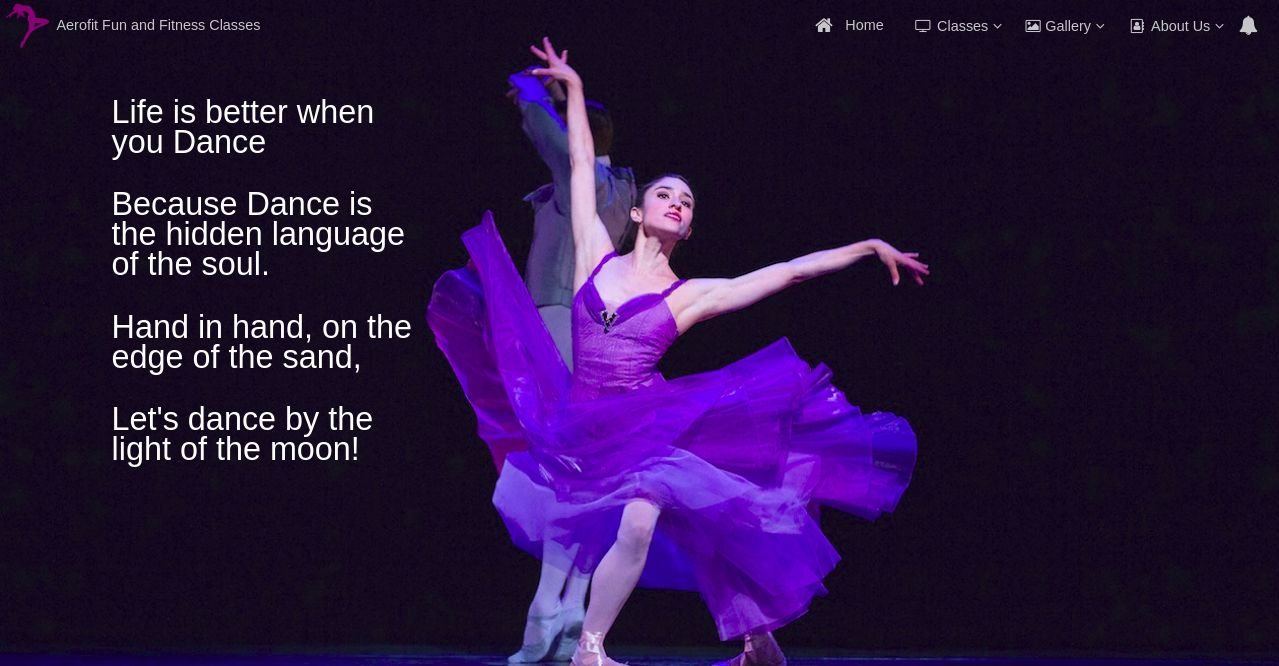
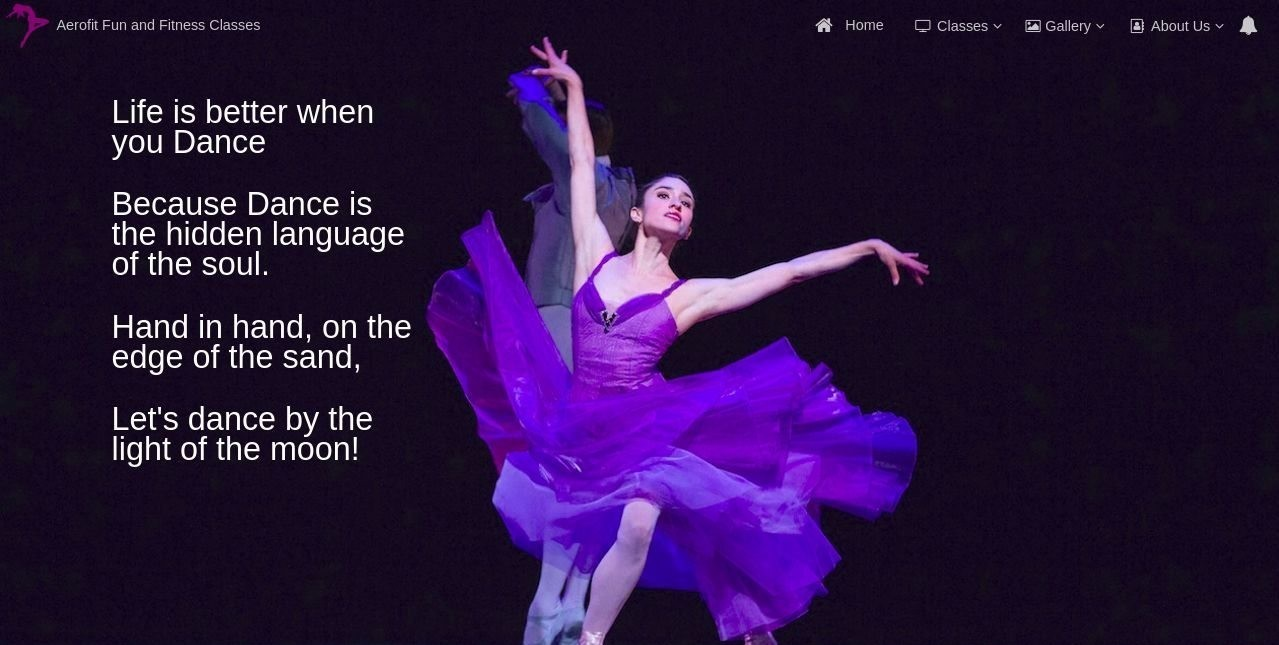
height: added to style.

diff --git a/src/styles.css b/src/styles.css
@@ -23,7 +23,8 @@
   @media only screen and (max-width: 767px) {
 
     amexio-viewport-content-body{
-      overflow: auto;
+       overflow: auto;       height: 100%;
+      height: 100%;
     }
 
   }
@@ -31,7 +32,7 @@
   @media only screen and (max-width: 959px) {
 
     amexio-viewport-content-body{
-      overflow: auto;
+       overflow: auto;       height: 100%;
     }
 
   }
@@ -39,14 +40,14 @@
   @media only screen and (max-width: 1024px) {
 
     amexio-viewport-content-body{
-      overflow: auto;
+       overflow: auto;       height: 100%;
     }
   }
 
   @media only screen and (min-width: 568px) and (max-width: 768px) {
 
     amexio-viewport-content-body{
-      overflow: auto;
+       overflow: auto;       height: 100%;
     }
   }
  

diff --git a/src/app/landing-page/landing-page.component.html b/src/app/landing-page/landing-page.component.html
@@ -121,8 +121,7 @@
             <amexio-body-ce>
               <amexio-image class="homepage-cursor" [path]="'assets/viewport/demo1.jpg'">
               </amexio-image>
-              <p>Life is better when you Dance
-                Because Dance is the hidden language of the soul.
+              <p>Life is better when you Dance Because Dance is the hidden language of the soul.
               </p>
             </amexio-body-ce>
             <amexio-action-ce align="center" [border-top]="true">
